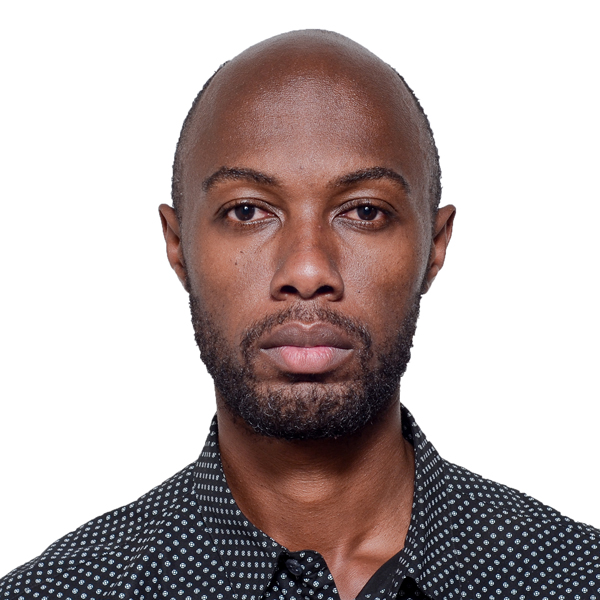
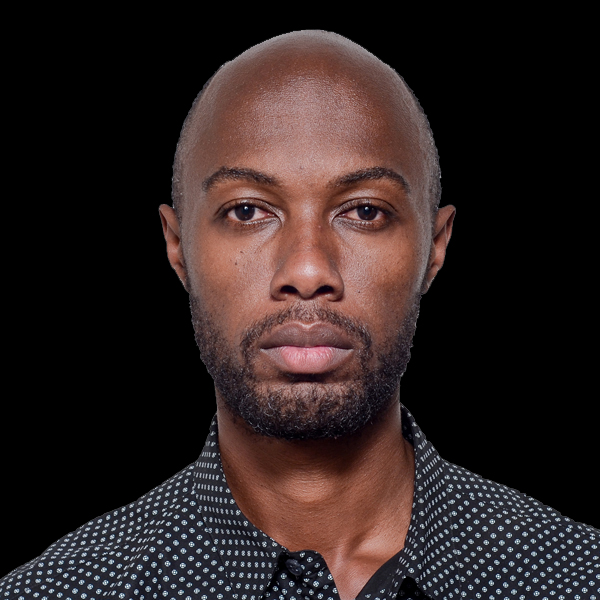
color theme change

diff --git a/sass/components/_site-hero.scss b/sass/components/_site-hero.scss
@@ -1,9 +1,16 @@
 @use "../abstracts" as *;
 .hero {
+  border-radius: 50px;
   justify-content: center;
-  background: url("../public/imgs/mooning.png"), #f1f1ef; /* Base color */
-  background-blend-mode: multiply;
-  background-repeat: repeat;
+  // background: url("../public/imgs/mooning.png"), #f1f1ef; /* Base color */
+  // background-blend-mode: multiply;
+  // background-repeat: repeat;
+  // background: linear-gradient(
+  //   90deg,
+  //   $color-neutral-700,
+  //   $color-neutral-400
+  // ); /* Your gradient */
+  background-color: black;
 
   span {
     display: block;
@@ -18,8 +25,8 @@
     h1 {
       background: linear-gradient(
         90deg,
-        $body-text-color,
-        $color-neutral-500
+        $color-neutral-200,
+        $color-neutral-700
       ); /* Your gradient */
       -webkit-background-clip: text; /* Clips background to the text */
       -webkit-text-fill-color: transparent; /* Makes the text transparent */

diff --git a/index.html b/index.html
@@ -14,7 +14,7 @@
     />
   </head>
 
-  <body>
+  <body class="margin-block-start-4">
     <div class="hero flex-group container" | data-type="wide">
       <header
         class="navigation container flex-group flex-space-between padding-block-start-10 padding-inline-10"
@@ -25,7 +25,7 @@
           class="nav flex-group flex-col-gap-tighter flex-center nav-link-group1"
         >
           <p>hwezah.dev@gmail.com</p>
-          <li><a href="">My Work</a></li>
+          <!-- <li><a href="">My Work</a></li> -->
           <li><a href="">Cv</a></li>
         </ul>
         <ul class="nav flex-group flex-col-gap-tighter nav-link-group2">
@@ -42,7 +42,7 @@
         <div class="hero__text">
           <h1 class="fs-800">
             Building digital <span>products,brands,and</span
-            ><span>experience.</span>
+            ><span>web experiences.</span>
           </h1>
         </div>
         <a

diff --git a/sass/components/_navigation.scss b/sass/components/_navigation.scss
@@ -10,17 +10,19 @@
     a {
       display: inline-block;
       cursor: pointer;
-      color: $body-text-color;
+      color: $color-neutral-000;
       text-decoration: $navigation-link-text-decoration;
+      transition: all 0.3s ease;
     }
   }
   .nav-link-group1 a {
-    background-color: #ffff;
+    background-color: $body-text-color;
     padding: $size-1 $size-4;
     border-radius: 50px;
+
     &:is(:hover, :focus) {
-      color: $color-neutral-000;
-      background-color: $body-text-color;
+      color: $color-neutral-1000;
+      background-color: $color-neutral-000;
     }
   }
 
@@ -28,6 +30,7 @@
     background-color: none;
     &:is(:hover, :focus) {
       background-color: none;
+      scale: 1.2;
     }
   }
   .nav-link-group2 li:not(:last-child)::after {

diff --git a/sass/abstracts/_colors.scss b/sass/abstracts/_colors.scss
@@ -226,7 +226,7 @@ $color-neutral-800: var(--neutral-800);
 $color-neutral-900: var(--neutral-900);
 $color-neutral-1000: var(--neutral-1000);
 
-$color-primary-100: var(--primary-100);
+$color-primary-100: var(--yellow-100);
 $color-primary-200: var(--primary-200);
 $color-primary-300: var(--primary-300);
 $color-primary-400: var(--primary-400);
